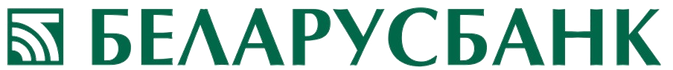
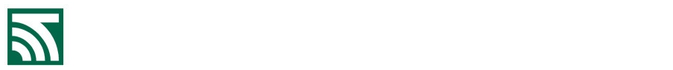
fix: убран фон логотипов банков, поддержана карта учащегося Беларусбанка, убраны черкаши и имя держателя, переведен срок действия

diff --git a/public/js/modules/orders.js b/public/js/modules/orders.js
@@ -2403,8 +2403,8 @@ function detectCardType(number) {
   const clean = String(number || '').replace(/\D/g, '');
   if (/^4/.test(clean)) return 'Visa';
   if (/^(5[1-5]|222[1-9]|22[3-9]|2[3-6]|27[01]|2720)/.test(clean)) return 'Mastercard';
-  if (/^220[0-4]/.test(clean)) return 'МИР';
-  if (/^(9112|9860|9861|9862)/.test(clean)) return 'БЕЛКАРТ';
+  if (/^(9112|9860|9861|9862|2204)/.test(clean)) return 'БЕЛКАРТ';
+  if (/^220[0-3]/.test(clean)) return 'МИР';
   if (/^(62|81)/.test(clean)) return 'UnionPay';
   return 'Банковская карта';
 }
@@ -2446,20 +2446,7 @@ const BANK_CONFIGS = {
     cardGlow: 'shadow-teal-950/60 ring-teal-400/20',
     badgeBg: 'bg-teal-500/20 text-teal-300 border border-teal-400/40',
     accentColor: '#00A88F',
-    binRegex: /^(418701|510076|520261|544837|911206|986006|405786)/
-  },
-  belarusbank: {
-    code: 'belarusbank',
-    name: 'Беларусбанк',
-    shortName: 'Беларусбанк',
-    logo: '/assets/banks/belarusbank.webp',
-    icon: '🟢',
-    cardGradient: 'from-[#052819] via-[#091b13] to-[#073620]',
-    cardBorder: 'border-emerald-400/40',
-    cardGlow: 'shadow-emerald-950/60 ring-emerald-400/20',
-    badgeBg: 'bg-emerald-500/20 text-emerald-300 border border-emerald-400/40',
-    accentColor: '#006A4E',
-    binRegex: /^(425519|425520|545622|911201|911221|986001|405787|516315)/
+    binRegex: /^(418701|4187|510076|520261|544837|911206|986006|405786)/
   },
   belagroprom: {
     code: 'belagroprom',
@@ -2472,7 +2459,7 @@ const BANK_CONFIGS = {
     cardGlow: 'shadow-orange-950/60 ring-orange-400/20',
     badgeBg: 'bg-orange-500/20 text-orange-300 border border-orange-400/40',
     accentColor: '#FF7A00',
-    binRegex: /^(405877|437435|521405|524430|911200|986000|544775|416954)/
+    binRegex: /^(405877|4058|437435|4374|521405|524430|911200|986000|544775|416954)/
   },
   prior: {
     code: 'prior',
@@ -2485,7 +2472,7 @@ const BANK_CONFIGS = {
     cardGlow: 'shadow-yellow-950/60 ring-yellow-400/20',
     badgeBg: 'bg-amber-400/20 text-amber-300 border border-amber-400/40',
     accentColor: '#FFD200',
-    binRegex: /^(409428|430488|510049|535109|911202|986002)/
+    binRegex: /^(409428|4094|430488|4304|510049|535109|911202|986002)/
   },
   sber: {
     code: 'sber',
@@ -2498,7 +2485,20 @@ const BANK_CONFIGS = {
     cardGlow: 'shadow-emerald-950/60 ring-emerald-400/20',
     badgeBg: 'bg-emerald-500/20 text-emerald-300 border border-emerald-400/40',
     accentColor: '#21A038',
-    binRegex: /^(418868|510087|911203|986003|405255|427229|220024|4276|4279|5469|2202)/
+    binRegex: /^(418868|4188|510087|911203|986003|405255|427229|220024|4276|4279|5469|2202)/
+  },
+  belarusbank: {
+    code: 'belarusbank',
+    name: 'Беларусбанк',
+    shortName: 'Беларусбанк',
+    logo: '/assets/banks/belarusbank.webp',
+    icon: '🟢',
+    cardGradient: 'from-[#052819] via-[#091b13] to-[#073620]',
+    cardBorder: 'border-emerald-400/40',
+    cardGlow: 'shadow-emerald-950/60 ring-emerald-400/20',
+    badgeBg: 'bg-emerald-500/20 text-emerald-300 border border-emerald-400/40',
+    accentColor: '#006A4E',
+    binRegex: /^(4255|405787|4057|5456|5163|535108|6762|6769|6771|911201|91122|9112|9860|2204|2200)/
   }
 };
 window.BANK_CONFIGS = BANK_CONFIGS;
@@ -2509,7 +2509,7 @@ function getBankLogoHtml(bankOrCode, customClass = '') {
   const bank = BANK_CONFIGS[code] || Object.values(BANK_CONFIGS).find(b => b.name.toLowerCase() === code || b.shortName.toLowerCase() === code);
   const extra = customClass ? ' ' + customClass : '';
   if (bank && bank.logo) {
-    return `<img src="${bank.logo}" alt="${bank.name}" class="h-4 max-h-[17px] w-auto object-contain select-none${extra}" loading="lazy">`;
+    return `<img src="${bank.logo}" alt="${bank.name}" class="h-4 max-h-[18px] w-auto object-contain select-none${extra}" loading="lazy">`;
   }
   return '';
 }
@@ -2518,12 +2518,10 @@ window.getBankLogoHtml = getBankLogoHtml;
 function detectBank(number) {
   const clean = String(number || '').replace(/\D/g, '');
   if (clean.length < 4) return null;
-  const bin6 = clean.substring(0, 6);
-  const bin4 = clean.substring(0, 4);
 
   for (const key of Object.keys(BANK_CONFIGS)) {
     const bank = BANK_CONFIGS[key];
-    if (bank.binRegex && (bank.binRegex.test(bin6) || bank.binRegex.test(bin4))) {
+    if (bank.binRegex && bank.binRegex.test(clean)) {
       return bank;
     }
   }
@@ -2676,7 +2674,7 @@ window.renderCheckoutCards = function() {
           </div>
           <div>
             <div class="flex items-center gap-1.5 flex-wrap">
-              ${bankLogoHtml ? `<span class="inline-flex items-center bg-white/95 rounded px-1.5 py-0.5 shadow-sm">${bankLogoHtml}</span>` : (bankName ? `<span class="text-xs font-bold text-white">${bankName}</span>` : '')}
+              ${bankLogoHtml ? `<span class="inline-flex items-center">${bankLogoHtml}</span>` : (bankName ? `<span class="text-xs font-bold text-white">${bankName}</span>` : '')}
               <span class="text-xs font-mono font-bold text-white tracking-wider">•••• ${last4}</span>
               ${c.is_default ? '<span class="text-[8px] text-cyan-300 font-bold bg-cyan-500/20 px-1.5 py-0.5 rounded-full border border-cyan-400/40">Осн.</span>' : ''}
             </div>
@@ -2743,14 +2741,14 @@ window.openAddCardModal = function(onSuccess) {
       </div>
 
       <!-- Живая интерактивная банковская карта (ISO ID-1, динамический банк и платежная система) -->
-      <div class="relative w-full aspect-[1.586/1] max-w-[315px] mx-auto rounded-2xl p-4 flex flex-col justify-between overflow-hidden select-none transition-all duration-500 shadow-2xl bg-gradient-to-br from-slate-900 via-slate-850 to-slate-900 border border-white/15" id="liveCardPreview">
+      <div class="relative w-full aspect-[1.586/1] max-w-[315px] mx-auto rounded-2xl p-4 sm:p-5 flex flex-col justify-between overflow-hidden select-none transition-all duration-500 shadow-2xl bg-gradient-to-br from-slate-900 via-slate-850 to-slate-900 border border-white/15" id="liveCardPreview">
         <!-- Световой блик пластика -->
-        <div class="absolute inset-0 bg-gradient-to-tr from-transparent via-white/[0.05] to-transparent pointer-events-none"></div>
+        <div class="absolute inset-0 bg-gradient-to-tr from-transparent via-white/[0.04] to-transparent pointer-events-none"></div>
 
         <!-- 1. Верхний ряд: Логотип банка слева + Логотип системы справа -->
         <div class="relative z-10 flex items-center justify-between gap-3 min-h-[26px]">
           <div id="liveCardBankSlot" class="flex items-center min-w-0 transition-opacity duration-300">
-            <span class="text-[11px] font-black tracking-widest uppercase text-white/70 font-sans truncate" id="liveCardBankName">ICE LOGIX</span>
+            <span class="text-[11px] font-black tracking-widest uppercase text-white/70 font-sans truncate" id="liveCardBankName">БАНК</span>
           </div>
 
           <div id="liveCardBrandSlot" class="flex items-center justify-center flex-shrink-0 transition-all duration-300">
@@ -2758,8 +2756,8 @@ window.openAddCardModal = function(onSuccess) {
           </div>
         </div>
 
-        <!-- 2. Средняя часть: Золотистый EMV-чип + NFC волны -->
-        <div class="relative z-10 flex items-center justify-between pt-0.5">
+        <!-- 2. Средняя часть: Золотистый EMV-чип (без лишних значков/черкашей) -->
+        <div class="relative z-10 my-auto flex items-center pt-0.5">
           <div class="w-9 h-6.5 rounded-md bg-gradient-to-br from-amber-200 via-amber-400 to-amber-600 border border-amber-300/60 shadow-inner relative overflow-hidden p-0.5 flex-shrink-0">
             <div class="w-full h-full border border-amber-900/20 rounded-sm grid grid-cols-2 gap-0.5 opacity-80">
               <div class="border-r border-b border-amber-900/30"></div>
@@ -2767,10 +2765,6 @@ window.openAddCardModal = function(onSuccess) {
               <div class="border-r border-amber-900/30"></div>
               <div></div>
             </div>
-          </div>
-          <!-- Значок бесконтактной оплаты NFC -->
-          <div class="text-white/40 transform rotate-90 scale-90 select-none opacity-80 pr-1">
-            <svg width="16" height="16" viewBox="0 0 24 24" fill="none" stroke="currentColor" stroke-width="2" stroke-linecap="round"><path d="M8.5 16.5a5 5 0 0 1 0-9"/><path d="M12 19a8.5 8.5 0 0 0 0-14"/><path d="M15.5 21.5a12 12 0 0 0 0-19"/></svg>
           </div>
         </div>
 
@@ -2782,12 +2776,8 @@ window.openAddCardModal = function(onSuccess) {
 
           <div class="flex items-end justify-between text-left pt-0.5">
             <div>
-              <p class="text-[7px] uppercase tracking-widest text-white/40 font-bold select-none leading-none">VALID THRU</p>
-              <p id="liveCardExpiry" class="text-xs font-mono font-bold text-white/90 mt-0.5 select-none tracking-wider">MM/YY</p>
-            </div>
-            <div>
-              <p class="text-[7px] uppercase tracking-widest text-white/40 font-bold select-none leading-none text-right">CARDHOLDER</p>
-              <p class="text-[10px] font-sans font-bold text-white/70 mt-0.5 select-none tracking-wider text-right uppercase">VALUED CLIENT</p>
+              <p class="text-[7px] uppercase tracking-wider text-white/40 font-bold select-none leading-none">СРОК ДЕЙСТВИЯ</p>
+              <p id="liveCardExpiry" class="text-xs font-mono font-bold text-white/90 mt-0.5 select-none tracking-wider">ММ/ГГ</p>
             </div>
           </div>
         </div>
@@ -2963,14 +2953,14 @@ window.openAddCardModal = function(onSuccess) {
 
     if (liveCard) {
       if (bank) {
-        liveCard.className = `relative w-full aspect-[1.586/1] max-w-[315px] mx-auto rounded-2xl p-4 flex flex-col justify-between overflow-hidden select-none transition-all duration-500 shadow-2xl bg-gradient-to-br ${bank.cardGradient} border ${bank.cardBorder} ${bank.cardGlow}`;
+        liveCard.className = `relative w-full aspect-[1.586/1] max-w-[315px] mx-auto rounded-2xl p-4 sm:p-5 flex flex-col justify-between overflow-hidden select-none transition-all duration-500 shadow-2xl bg-gradient-to-br ${bank.cardGradient} border ${bank.cardBorder} ${bank.cardGlow}`;
         if (bankSlot) {
-          bankSlot.innerHTML = `<div class="h-6 px-2.5 py-0.5 rounded-lg bg-white/95 backdrop-blur-md border border-white/40 shadow-sm flex items-center justify-center">${getBankLogoHtml(bank.code, 'max-h-4 max-w-[85px]')}</div>`;
+          bankSlot.innerHTML = getBankLogoHtml(bank.code, 'h-5 max-h-[22px] w-auto object-contain');
         }
       } else {
-        liveCard.className = 'relative w-full aspect-[1.586/1] max-w-[315px] mx-auto rounded-2xl p-4 flex flex-col justify-between overflow-hidden select-none transition-all duration-500 shadow-2xl bg-gradient-to-br from-slate-900 via-slate-850 to-slate-900 border border-white/15';
+        liveCard.className = 'relative w-full aspect-[1.586/1] max-w-[315px] mx-auto rounded-2xl p-4 sm:p-5 flex flex-col justify-between overflow-hidden select-none transition-all duration-500 shadow-2xl bg-gradient-to-br from-slate-900 via-slate-850 to-slate-900 border border-white/15';
         if (bankSlot) {
-          bankSlot.innerHTML = '<span class="text-[11px] font-black tracking-widest uppercase text-white/70 font-sans truncate" id="liveCardBankName">ICE LOGIX</span>';
+          bankSlot.innerHTML = '<span class="text-[11px] font-black tracking-widest uppercase text-white/70 font-sans truncate" id="liveCardBankName">БАНК</span>';
         }
       }
 
@@ -2993,7 +2983,7 @@ window.openAddCardModal = function(onSuccess) {
   window.testFillCard = function(bankCode) {
     const testMap = {
       belinvest: { num: '4187010000000006', exp: '12/28', cvc: '777' },
-      belarusbank: { num: '4255190000000003', exp: '12/28', cvc: '777' },
+      belarusbank: { num: '9860180000000000', exp: '12/28', cvc: '777' },
       belagroprom: { num: '4058770000000001', exp: '12/28', cvc: '777' },
       prior: { num: '4094280000000007', exp: '12/28', cvc: '777' },
       sber: { num: '4188680000000005', exp: '12/28', cvc: '777' }
@@ -3077,7 +3067,7 @@ window.openAddCardModal = function(onSuccess) {
     }
     const expSlot = document.getElementById('liveCardExpiry');
     if (expSlot) {
-      expSlot.innerText = e.target.value.trim() || 'MM/YY';
+      expSlot.innerText = e.target.value.trim() || 'ММ/ГГ';
     }
     validateForm();
     if (digits.length === 4) {
@@ -3220,7 +3210,7 @@ window.openCardsManagementModal = async function() {
             </div>
             <div>
               <div class="flex items-center gap-1.5 flex-wrap">
-                ${bankLogoHtml ? `<span class="inline-flex items-center bg-white/95 rounded px-1.5 py-0.5 shadow-sm">${bankLogoHtml}</span>` : (bank ? `<span class="text-xs font-bold text-white">${bank}</span>` : '')}
+                ${bankLogoHtml ? `<span class="inline-flex items-center">${bankLogoHtml}</span>` : (bank ? `<span class="text-xs font-bold text-white">${bank}</span>` : '')}
                 <span class="text-xs font-mono font-bold text-white tracking-wider">•••• ${last4}</span>
                 ${isDef ? '<span class="text-[9px] text-cyan-300 font-bold bg-cyan-500/20 px-2 py-0.5 rounded-full border border-cyan-400/40">Основная</span>' : ''}
               </div>

diff --git a/public/js/modules/finances.js b/public/js/modules/finances.js
@@ -103,13 +103,13 @@ function _renderCardsListHtml(cards, manageMode) {
           ? window.getCardBrandLogoHtml(brand)
           : `<span class="text-xs font-bold text-white font-mono">${brand}</span>`;
         const bankLogoHtml = typeof window.getBankLogoHtml === 'function' && bankCfg
-          ? window.getBankLogoHtml(bankCfg.code, 'max-h-4 max-w-[85px]')
+          ? window.getBankLogoHtml(bankCfg.code, 'h-5 max-h-[22px] w-auto object-contain')
           : '';
 
         const cardBgClass = bankCfg
           ? `bg-gradient-to-br ${bankCfg.cardGradient} border ${bankCfg.cardBorder} ${bankCfg.cardGlow} ${isDef ? 'ring-2 ring-cyan-400/50' : 'ring-1 ring-white/10'}`
           : (isDef
-              ? 'bg-gradient-to-br from-slate-900 via-slate-800/95 to-cyan-950 border border-cyan-400/40 shadow-2xl shadow-cyan-950/60 ring-1 ring-white/10'
+              ? 'bg-gradient-to-br from-slate-900 via-slate-850 to-cyan-950 border border-cyan-400/40 shadow-2xl shadow-cyan-950/60 ring-1 ring-white/10'
               : 'bg-gradient-to-br from-slate-900 via-slate-850 to-slate-900 border border-white/15 shadow-xl shadow-black/70 ring-1 ring-white/5');
 
         return `
@@ -117,18 +117,18 @@ function _renderCardsListHtml(cards, manageMode) {
             <!-- Пластиковая банковская карта (ISO ID-1, пропорции 1.586 : 1, компактная ширина 315px) -->
             <div class="relative w-full aspect-[1.586/1] max-w-[315px] mx-auto rounded-2xl p-4 sm:p-5 flex flex-col justify-between overflow-hidden select-none transition-all duration-300 ${cardBgClass}">
               <!-- Световой блик пластика -->
-              <div class="absolute inset-0 bg-gradient-to-tr from-transparent via-white/[0.05] to-transparent pointer-events-none"></div>
+              <div class="absolute inset-0 bg-gradient-to-tr from-transparent via-white/[0.04] to-transparent pointer-events-none"></div>
 
               <!-- 1. Верхний ряд: Банк слева + Логотип системы справа -->
               <div class="relative z-10 flex items-center justify-between gap-3 min-h-[26px]">
                 <div class="min-w-0 flex items-center">
                   ${bankLogoHtml ? `
-                    <div class="h-6 px-2.5 py-0.5 rounded-lg bg-white/95 backdrop-blur-md border border-white/40 shadow-sm flex items-center justify-center">
+                    <div class="flex items-center">
                       ${bankLogoHtml}
                     </div>
                   ` : `
                     <span class="text-[11px] font-black tracking-widest uppercase text-white/90 drop-shadow-sm truncate block font-sans">
-                      ${bankName || 'ICE LOGIX'}
+                      ${bankName || 'БАНК'}
                     </span>
                   `}
                 </div>
@@ -167,7 +167,7 @@ function _renderCardsListHtml(cards, manageMode) {
                 <!-- Срок действия -->
                 <div class="flex items-end justify-between text-left">
                   <div>
-                    <p class="text-[7px] uppercase tracking-widest text-white/40 font-bold select-none leading-none">VALID THRU</p>
+                    <p class="text-[7px] uppercase tracking-wider text-white/40 font-bold select-none leading-none">СРОК ДЕЙСТВИЯ</p>
                     <p class="text-xs font-mono font-bold text-white/90 mt-0.5 select-none tracking-wider">${exp}</p>
                   </div>
                 </div>

diff --git a/index.html b/index.html
@@ -36,7 +36,7 @@
   <script src="/js/modules/legitcheck.js?v=20261005"></script>
   <script src="/js/modules/admin.js?v=20261005"></script>
   <script src="/js/modules/admin-analytics.js?v=20261005"></script>
-  <script src="/js/modules/orders.js?v=20261013_10"></script>
+  <script src="/js/modules/orders.js?v=20261013_11"></script>
   <script src="/js/modules/reports-reviews.js?v=20261005"></script>
   <script src="/js/modules/catalogs.js?v=20261005"></script>
   <script src="/js/modules/profile-modals.js?v=20261005"></script>
@@ -230,7 +230,7 @@
   <script src="/js/modules/home.js?v=20261008_03"></script>
   <script src="/js/modules/calculator.js?v=20261005"></script>
   <script src="/js/modules/profile.js?v=20261013_09"></script>
-  <script src="/js/modules/finances.js?v=20261013_10"></script>
+  <script src="/js/modules/finances.js?v=20261013_11"></script>
   <script defer src="/js/core/router.js?v=20261013_02"></script>
 </body>
 </html>

diff --git a/public/app.html b/public/app.html
@@ -36,7 +36,7 @@
   <script src="/js/modules/legitcheck.js?v=20261005"></script>
   <script src="/js/modules/admin.js?v=20261005"></script>
   <script src="/js/modules/admin-analytics.js?v=20261005"></script>
-  <script src="/js/modules/orders.js?v=20261013_10"></script>
+  <script src="/js/modules/orders.js?v=20261013_11"></script>
   <script src="/js/modules/reports-reviews.js?v=20261005"></script>
   <script src="/js/modules/catalogs.js?v=20261005"></script>
   <script src="/js/modules/profile-modals.js?v=20261005"></script>
@@ -230,7 +230,7 @@
   <script src="/js/modules/home.js?v=20261008_03"></script>
   <script src="/js/modules/calculator.js?v=20261005"></script>
   <script src="/js/modules/profile.js?v=20261013_09"></script>
-  <script src="/js/modules/finances.js?v=20261013_10"></script>
+  <script src="/js/modules/finances.js?v=20261013_11"></script>
   <script defer src="/js/core/router.js?v=20261013_02"></script>
 </body>
 </html>
